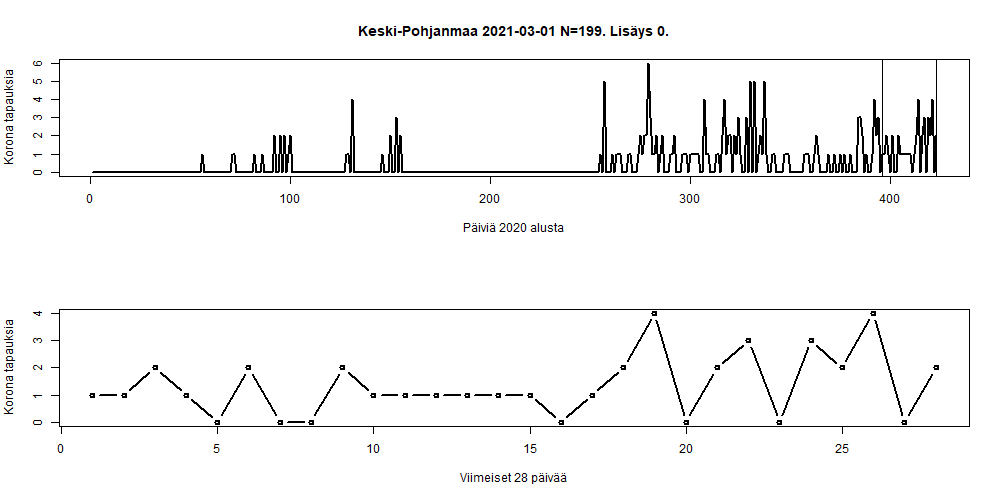
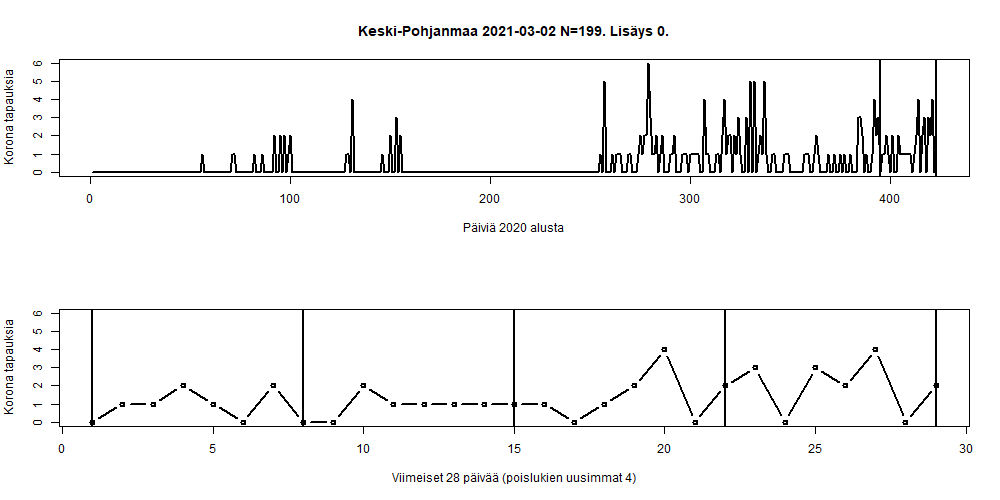
Update

diff --git a/hs-koronavirus-avoindata/README.md b/hs-koronavirus-avoindata/README.md
@@ -2,6 +2,7 @@
 
 Analyzing (https://github.com/HS-Datadesk/koronavirus-avoindata) data about COVID-19 in Finland.
 
+
 ```
 # Load data from hs-avoindata
 
@@ -19,6 +20,8 @@ Using [hs-koronavirus-avoindata.r](hs-koronavirus-avoindata.r). See also R Markd
 git add .
 git commit -m  "Update"
 ```
+
+## Daily cases in differente regions
 
 Graphs has last 4 days removed. See also gif as last image.
 
